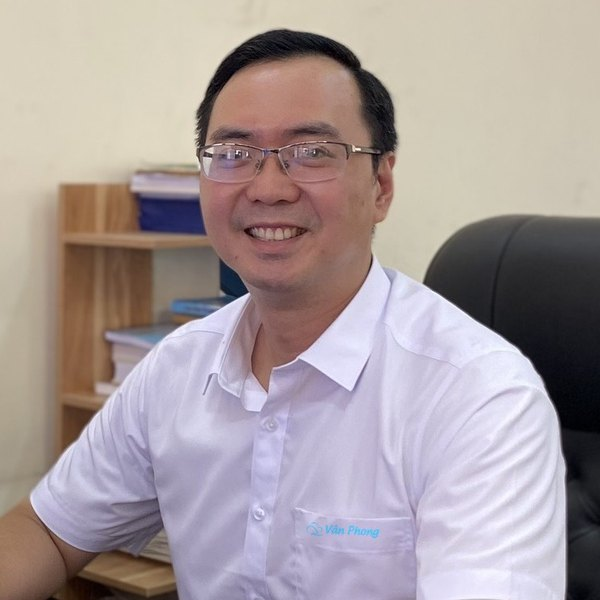
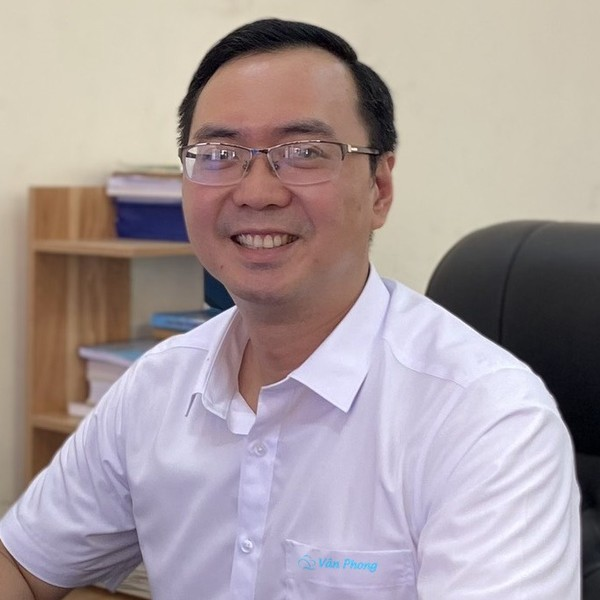
Ban lãnh đạo: ảnh ông Bình cân đối như ảnh bà Phương
Claude-Session: https://claude.ai/code/session_01Nv9HEvAiz6hbj6HU9Kr1Xs

diff --git a/index.html b/index.html
@@ -301,12 +301,12 @@ section{padding:70px 0}
 .pub .dl{margin:8px 0 0;display:flex;flex-wrap:wrap;gap:8px}.pub .dl a{font-size:13px;border:1px solid var(--blue);color:var(--blue);padding:3px 10px;border-radius:3px}
 .pub .dl a.tr{background:var(--blue);color:#fff}.pub .dl a:hover{opacity:.85}
 @media (max-width:600px){.pub{grid-template-columns:1fr;gap:8px}.pub .yr{width:60px}}
-.leader{display:grid;grid-template-columns:300px 1fr;gap:40px;align-items:start;max-width:1100px;margin:0 auto}
+.leader{display:grid;grid-template-columns:240px 1fr;gap:40px;align-items:start;max-width:1100px;margin:0 auto}
 .leader figure{margin:0}.leader figure img{width:100%;height:auto;aspect-ratio:1/1;object-fit:cover;border-radius:4px}
 .leader h3{margin:0;font-size:24px;color:#0E2F5A}.leader .role{margin:4px 0 16px;color:var(--cta);font-weight:600;text-transform:uppercase;letter-spacing:.04em;font-size:14px}
 .leader p{color:#4A545E;margin:0 0 12px}.leader h4{margin:14px 0 6px;font-size:15px;color:#2A333C;text-transform:uppercase;letter-spacing:.03em}
 .leader ul{margin:0;padding-left:18px;color:#4A545E}.leader li{margin:3px 0}
-.leader.chair{grid-template-columns:200px 1fr;align-items:center;margin-bottom:36px;padding-bottom:30px;border-bottom:1px solid var(--line)}
+.leader.chair{grid-template-columns:240px 1fr;align-items:center;margin-bottom:36px;padding-bottom:30px;border-bottom:1px solid var(--line)}
 .leader.chair h3{font-size:22px}
 .lcols{display:grid;grid-template-columns:1.3fr 1fr;gap:28px;margin-top:8px;border-top:1px solid var(--line);padding-top:6px}
 @media (max-width:860px){.leader,.leader.chair{grid-template-columns:1fr;gap:20px}.leader figure{max-width:280px}.lcols{grid-template-columns:1fr;gap:0}}
@@ -520,7 +520,7 @@ footer .flogo{height:34px;width:auto;filter:brightness(0) invert(1);margin-botto
     <div class="lbody"><h3>Bà Trần Hoàng Phương</h3><p class="role">Chủ tịch Công ty</p></div>
   </article>
   <article class="leader">
-    <figure><img src="/lanh-dao/le-thanh-binh.jpg" alt="TS. Lê Thanh Bình" width="600" height="600" loading="lazy"></figure>
+    <figure><img src="/lanh-dao/le-thanh-binh.jpg?v=2" alt="TS. Lê Thanh Bình" width="600" height="600" loading="lazy"></figure>
     <div class="lbody">
       <h3>TS. Lê Thanh Bình</h3><p class="role">Trợ lý Tổng Giám đốc</p>
       <p>TS. Lê Thanh Bình là Trợ lý Tổng Giám đốc Công ty TNHH Kỹ thuật và Thương mại Vân Phong. Ông có 20 năm kinh nghiệm trong lĩnh vực nghiên cứu khoa học và công nghệ, công nghệ vật liệu, tư vấn xây dựng, thí nghiệm – kiểm định, thiết kế – chế tạo thiết bị cơ khí phục vụ ngành mỏ và công nghiệp, thương mại xuất – nhập khẩu vật tư – thiết bị công nghiệp, y tế, phòng thí nghiệm và giáo dục.</p><p>Tại Vân Phong, ông hỗ trợ Tổng Giám đốc về chuyên môn kỹ thuật, tư vấn đầu tư xây dựng, thiết kế, tính toán, lựa chọn giải pháp thiết bị cho chủ đầu tư và phát triển hợp tác với các đối tác trong và ngoài nước.</p>

diff --git a/en/index.html b/en/index.html
@@ -301,12 +301,12 @@ section{padding:70px 0}
 .pub .dl{margin:8px 0 0;display:flex;flex-wrap:wrap;gap:8px}.pub .dl a{font-size:13px;border:1px solid var(--blue);color:var(--blue);padding:3px 10px;border-radius:3px}
 .pub .dl a.tr{background:var(--blue);color:#fff}.pub .dl a:hover{opacity:.85}
 @media (max-width:600px){.pub{grid-template-columns:1fr;gap:8px}.pub .yr{width:60px}}
-.leader{display:grid;grid-template-columns:300px 1fr;gap:40px;align-items:start;max-width:1100px;margin:0 auto}
+.leader{display:grid;grid-template-columns:240px 1fr;gap:40px;align-items:start;max-width:1100px;margin:0 auto}
 .leader figure{margin:0}.leader figure img{width:100%;height:auto;aspect-ratio:1/1;object-fit:cover;border-radius:4px}
 .leader h3{margin:0;font-size:24px;color:#0E2F5A}.leader .role{margin:4px 0 16px;color:var(--cta);font-weight:600;text-transform:uppercase;letter-spacing:.04em;font-size:14px}
 .leader p{color:#4A545E;margin:0 0 12px}.leader h4{margin:14px 0 6px;font-size:15px;color:#2A333C;text-transform:uppercase;letter-spacing:.03em}
 .leader ul{margin:0;padding-left:18px;color:#4A545E}.leader li{margin:3px 0}
-.leader.chair{grid-template-columns:200px 1fr;align-items:center;margin-bottom:36px;padding-bottom:30px;border-bottom:1px solid var(--line)}
+.leader.chair{grid-template-columns:240px 1fr;align-items:center;margin-bottom:36px;padding-bottom:30px;border-bottom:1px solid var(--line)}
 .leader.chair h3{font-size:22px}
 .lcols{display:grid;grid-template-columns:1.3fr 1fr;gap:28px;margin-top:8px;border-top:1px solid var(--line);padding-top:6px}
 @media (max-width:860px){.leader,.leader.chair{grid-template-columns:1fr;gap:20px}.leader figure{max-width:280px}.lcols{grid-template-columns:1fr;gap:0}}
@@ -520,7 +520,7 @@ footer .flogo{height:34px;width:auto;filter:brightness(0) invert(1);margin-botto
     <div class="lbody"><h3>Ms. Tran Hoang Phuong</h3><p class="role">Chairperson</p></div>
   </article>
   <article class="leader">
-    <figure><img src="/lanh-dao/le-thanh-binh.jpg" alt="Dr. Le Thanh Binh" width="600" height="600" loading="lazy"></figure>
+    <figure><img src="/lanh-dao/le-thanh-binh.jpg?v=2" alt="Dr. Le Thanh Binh" width="600" height="600" loading="lazy"></figure>
     <div class="lbody">
       <h3>Dr. Le Thanh Binh</h3><p class="role">Assistant to the General Director</p>
       <p>Dr. Le Thanh Binh is Assistant to the General Director of Van Phong Technical and Trading Co., Ltd. He has 20 years of experience in science and technology research, materials technology, construction consulting, testing and inspection, design and manufacture of mechanical equipment for the mining and industrial sectors, and the import–export trade of materials and equipment for industry, healthcare, laboratories and education.</p><p>At Van Phong, he supports the General Director on technical matters, construction investment consulting, design, engineering calculations and the selection of equipment solutions for project owners, and develops cooperation with domestic and international partners.</p>

diff --git a/zh/index.html b/zh/index.html
@@ -301,12 +301,12 @@ section{padding:70px 0}
 .pub .dl{margin:8px 0 0;display:flex;flex-wrap:wrap;gap:8px}.pub .dl a{font-size:13px;border:1px solid var(--blue);color:var(--blue);padding:3px 10px;border-radius:3px}
 .pub .dl a.tr{background:var(--blue);color:#fff}.pub .dl a:hover{opacity:.85}
 @media (max-width:600px){.pub{grid-template-columns:1fr;gap:8px}.pub .yr{width:60px}}
-.leader{display:grid;grid-template-columns:300px 1fr;gap:40px;align-items:start;max-width:1100px;margin:0 auto}
+.leader{display:grid;grid-template-columns:240px 1fr;gap:40px;align-items:start;max-width:1100px;margin:0 auto}
 .leader figure{margin:0}.leader figure img{width:100%;height:auto;aspect-ratio:1/1;object-fit:cover;border-radius:4px}
 .leader h3{margin:0;font-size:24px;color:#0E2F5A}.leader .role{margin:4px 0 16px;color:var(--cta);font-weight:600;text-transform:uppercase;letter-spacing:.04em;font-size:14px}
 .leader p{color:#4A545E;margin:0 0 12px}.leader h4{margin:14px 0 6px;font-size:15px;color:#2A333C;text-transform:uppercase;letter-spacing:.03em}
 .leader ul{margin:0;padding-left:18px;color:#4A545E}.leader li{margin:3px 0}
-.leader.chair{grid-template-columns:200px 1fr;align-items:center;margin-bottom:36px;padding-bottom:30px;border-bottom:1px solid var(--line)}
+.leader.chair{grid-template-columns:240px 1fr;align-items:center;margin-bottom:36px;padding-bottom:30px;border-bottom:1px solid var(--line)}
 .leader.chair h3{font-size:22px}
 .lcols{display:grid;grid-template-columns:1.3fr 1fr;gap:28px;margin-top:8px;border-top:1px solid var(--line);padding-top:6px}
 @media (max-width:860px){.leader,.leader.chair{grid-template-columns:1fr;gap:20px}.leader figure{max-width:280px}.lcols{grid-template-columns:1fr;gap:0}}
@@ -520,7 +520,7 @@ footer .flogo{height:34px;width:auto;filter:brightness(0) invert(1);margin-botto
     <div class="lbody"><h3>陈黄芳 女士（Tran Hoang Phuong）</h3><p class="role">董事长</p></div>
   </article>
   <article class="leader">
-    <figure><img src="/lanh-dao/le-thanh-binh.jpg" alt="黎清平 博士（Le Thanh Binh）" width="600" height="600" loading="lazy"></figure>
+    <figure><img src="/lanh-dao/le-thanh-binh.jpg?v=2" alt="黎清平 博士（Le Thanh Binh）" width="600" height="600" loading="lazy"></figure>
     <div class="lbody">
       <h3>黎清平 博士（Le Thanh Binh）</h3><p class="role">总经理助理</p>
       <p>黎清平博士现任 Van Phong 技术与贸易有限公司总经理助理，在科技研究、材料技术、建设咨询、试验检测、矿山及工业机械设备设计制造，以及工业、医疗、实验室和教育用物资设备进出口贸易等领域拥有 20 年经验。</p><p>在 Van Phong，他协助总经理处理技术事务，为业主提供建设投资咨询、设计、计算及设备方案选型，并负责拓展与国内外合作伙伴的合作。</p>
